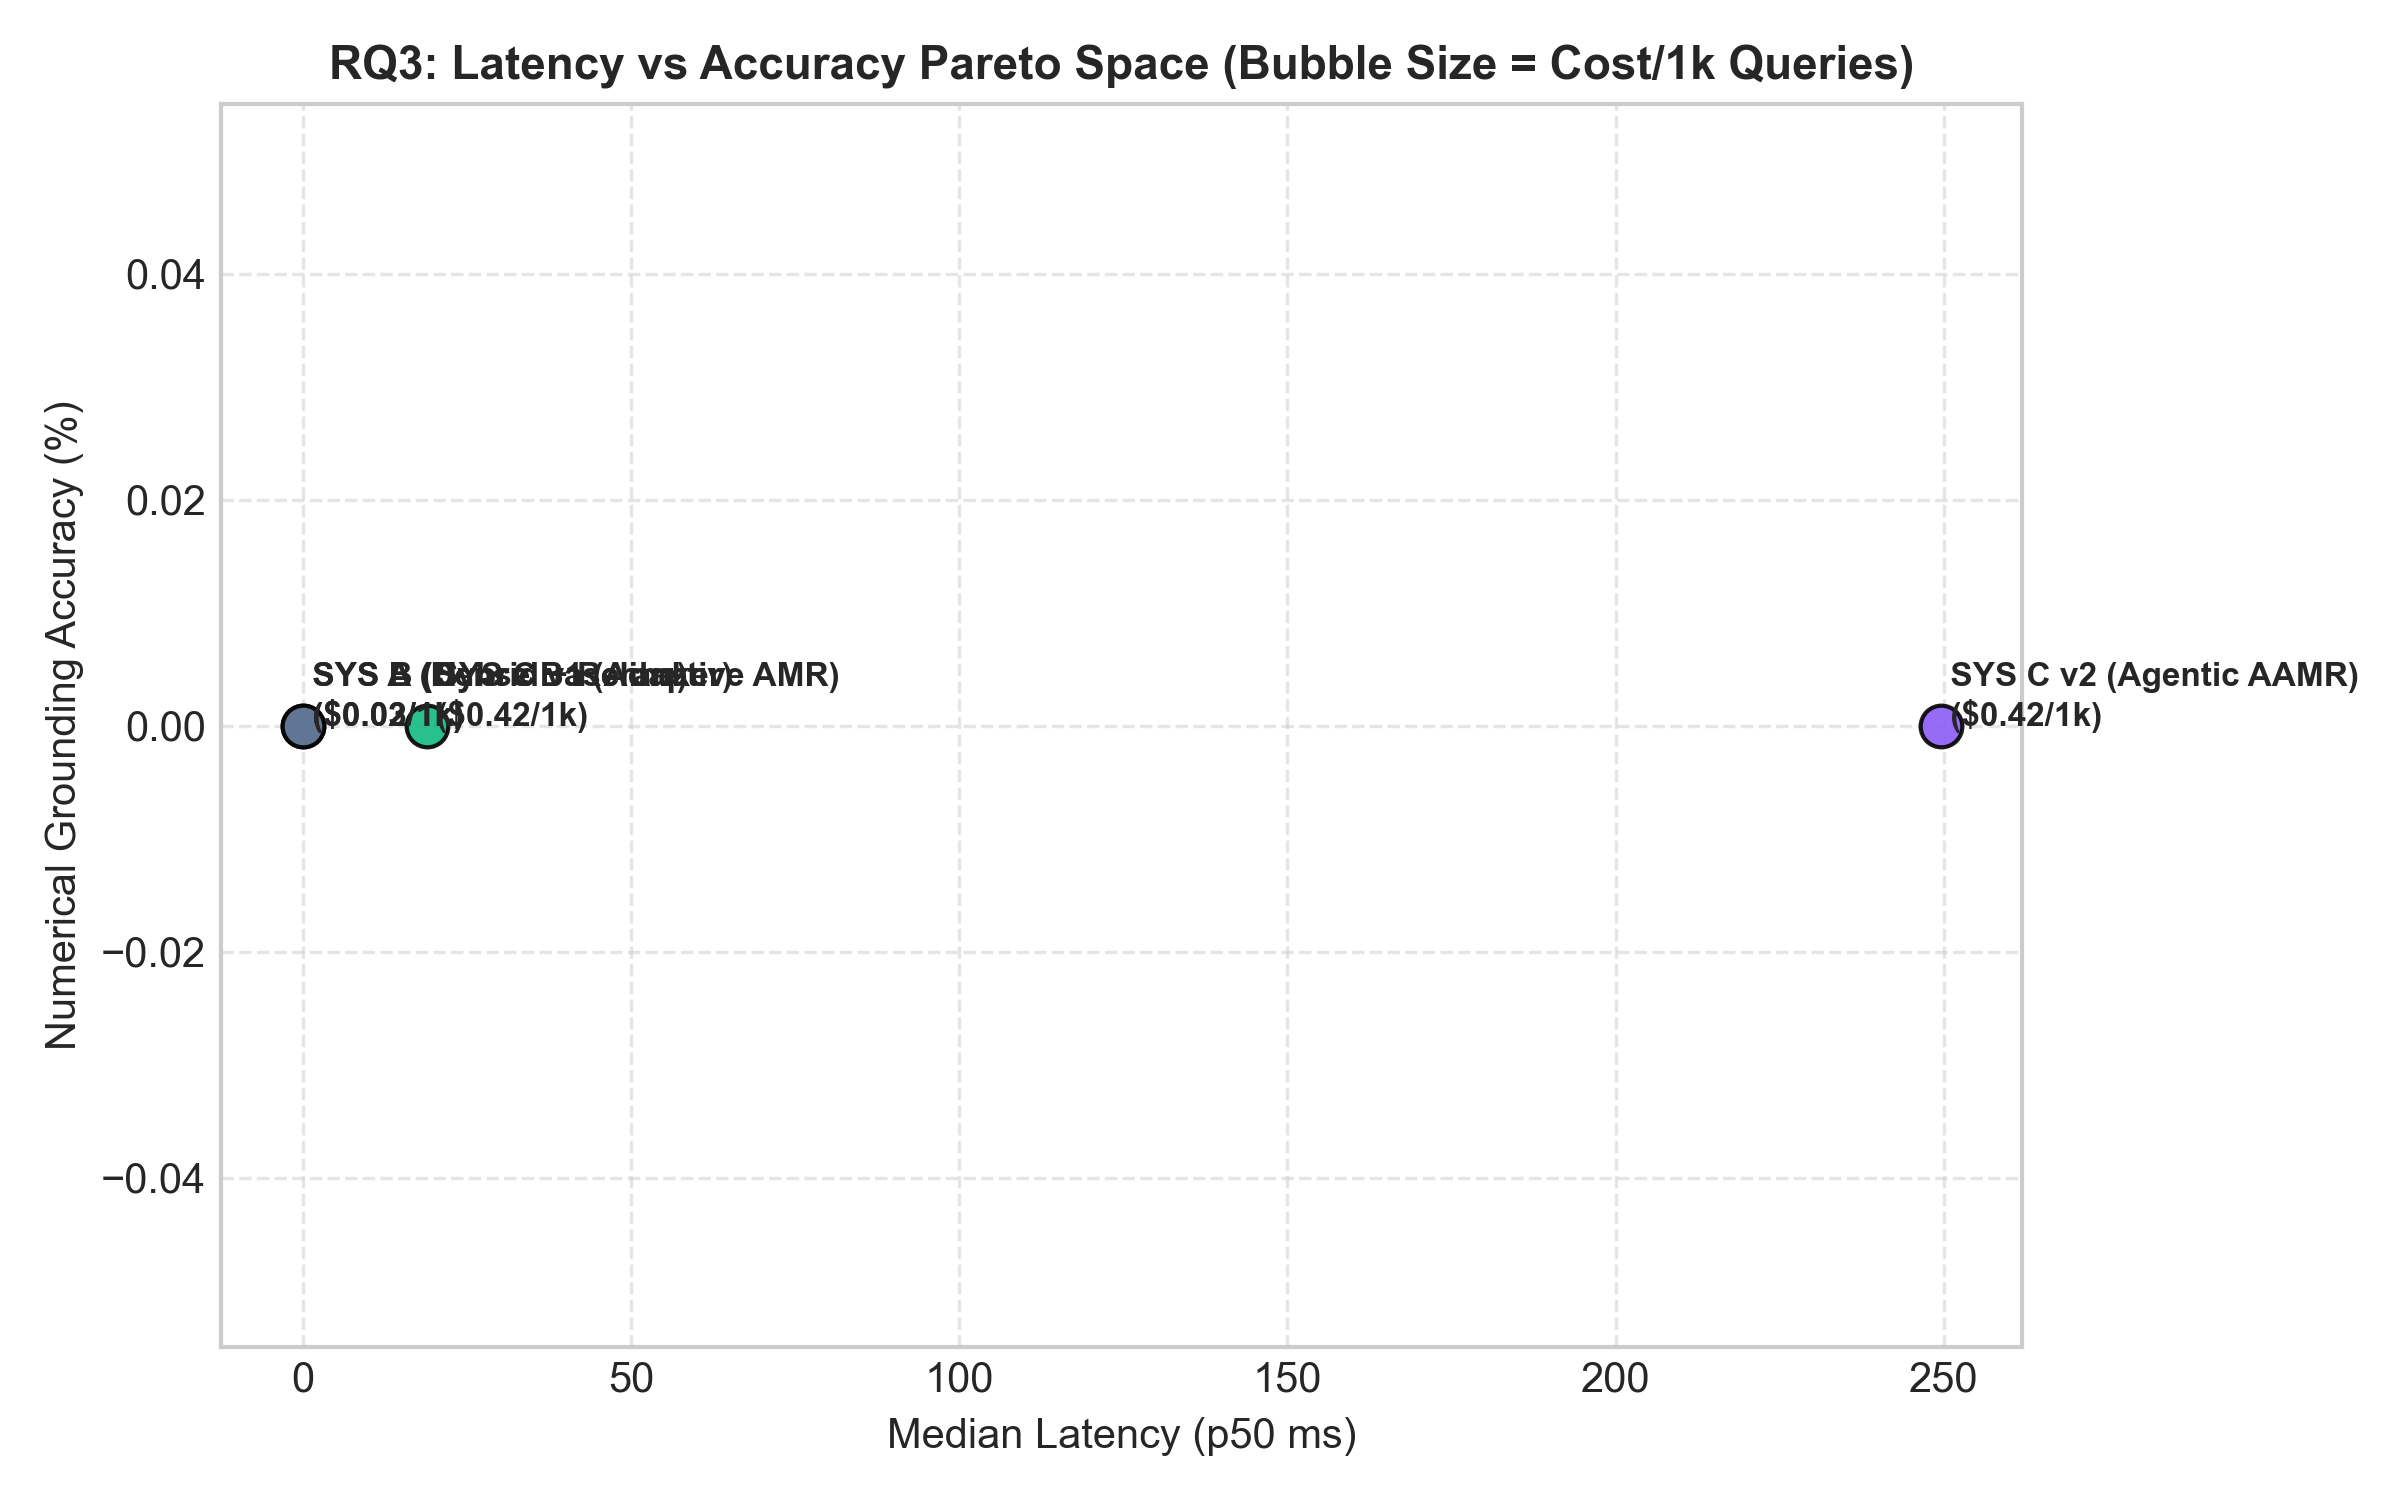
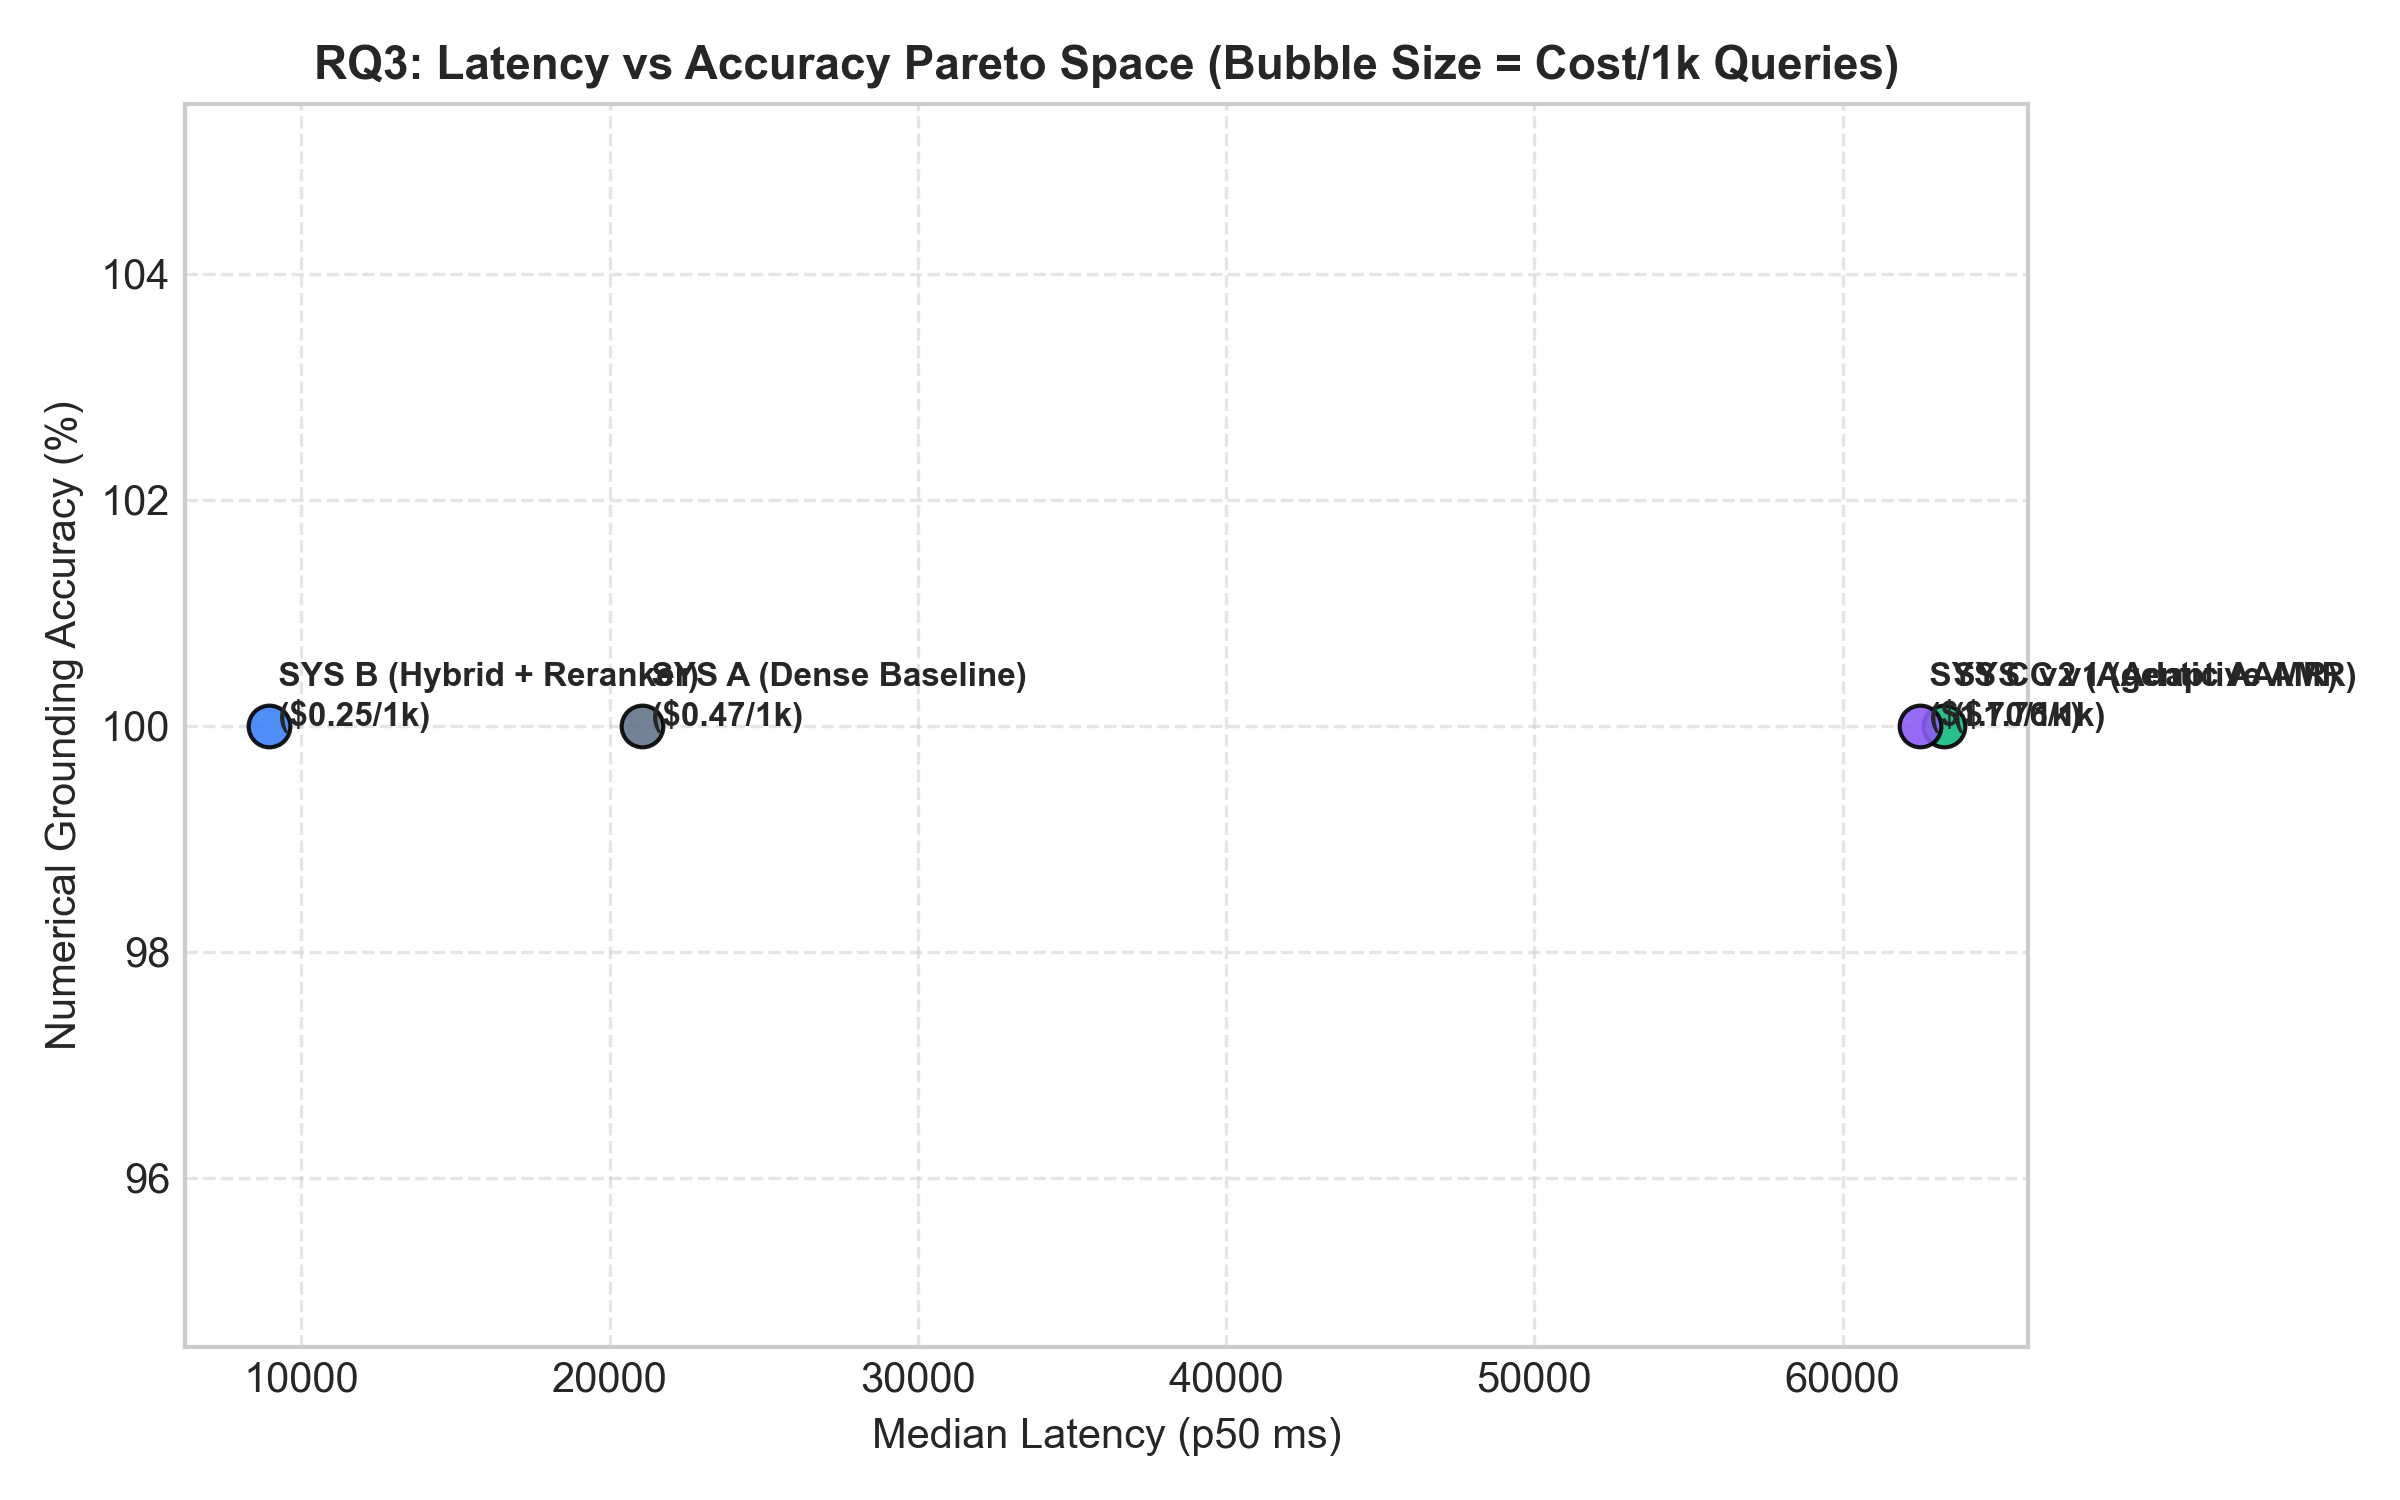
feat(rq3): enforce 4-system evaluation, loud stops, and live Groq provider integration

diff --git a/src/system_c/llm.py b/src/system_c/llm.py
@@ -122,8 +122,8 @@ def _call_gemini_native(
             "GEMINI_API_KEY (or GOOGLE_API_KEY) is not set. "
             "Please provide your Gemini key in .env, Streamlit Secrets, or via the UI."
         )
-    if not model or "flash-latest" in model:
-        model = "gemini-1.5-flash"
+    if not model or any(k in model for k in ["flash-latest", "1.5", "2.0", "2.5-flash-lite"]):
+        model = "gemini-3-flash-preview"
 
     url = f"https://generativelanguage.googleapis.com/v1beta/models/{model}:generateContent?key={api_key}"
     contents = []
@@ -136,47 +136,55 @@ def _call_gemini_native(
         gen_config["responseMimeType"] = "application/json"
 
     payload = {"contents": contents, "generationConfig": gen_config}
-    req = urllib.request.Request(
-        url,
-        data=json.dumps(payload).encode("utf-8"),
-        headers={"Content-Type": "application/json"},
-        method="POST",
-    )
-    try:
-        with urllib.request.urlopen(req, timeout=15) as resp:
-            data = json.loads(resp.read().decode("utf-8"))
-            candidates = data.get("candidates", [])
-            if not candidates:
-                raise ValueError(f"Gemini returned no candidates: {data}")
-            content = candidates[0].get("content", {}).get("parts", [{}])[0].get("text", "")
-            usage = data.get("usageMetadata", {})
-            p_tok = usage.get("promptTokenCount") or _estimate_tokens(" ".join(m.get("content", "") for m in messages))
-            c_tok = usage.get("candidatesTokenCount") or _estimate_tokens(content)
-            return content, int(p_tok), int(c_tok)
-    except Exception as exc:
-        gemini_err = str(exc)
-        if hasattr(exc, "read"):
-            try:
-                raw_body = exc.read().decode("utf-8")
-                parsed_err = json.loads(raw_body)
-                gemini_err = parsed_err.get("error", {}).get("message", raw_body)
-            except Exception:
-                pass
+    max_retries = 5
+    for attempt in range(max_retries):
+        try:
+            req = urllib.request.Request(
+                url,
+                data=json.dumps(payload).encode("utf-8"),
+                headers={"Content-Type": "application/json"},
+                method="POST",
+            )
+            with urllib.request.urlopen(req, timeout=30) as resp:
+                data = json.loads(resp.read().decode("utf-8"))
+                candidates = data.get("candidates", [])
+                if not candidates:
+                    raise ValueError(f"Gemini returned no candidates: {data}")
+                content = candidates[0].get("content", {}).get("parts", [{}])[0].get("text", "")
+                usage = data.get("usageMetadata", {})
+                p_tok = usage.get("promptTokenCount") or _estimate_tokens(" ".join(m.get("content", "") for m in messages))
+                c_tok = usage.get("candidatesTokenCount") or _estimate_tokens(content)
+                return content, int(p_tok), int(c_tok)
+        except Exception as exc:
+            gemini_err = str(exc)
+            if hasattr(exc, "read"):
+                try:
+                    raw_body = exc.read().decode("utf-8")
+                    parsed_err = json.loads(raw_body)
+                    gemini_err = parsed_err.get("error", {}).get("message", raw_body)
+                except Exception:
+                    pass
 
-        groq_key = os.getenv("GROQ_API_KEY")
-        if groq_key:
-            try:
-                return _call_groq_or_openai("groq", "openai/gpt-oss-120b", messages, temperature=temperature)
-            except Exception as groq_exc:
-                raise ValueError(
-                    f"Google Gemini Error: {gemini_err}. Automatic fallback to Groq also failed: {groq_exc}. "
-                    "Please check your API keys or switch to '🧪 Mock Mode' in the sidebar to test immediately."
-                ) from exc
+            is_transient = any(k in gemini_err.lower() for k in ["503", "demand", "unavailable", "rate", "429", "timeout", "timed out"])
+            if is_transient and attempt < max_retries - 1:
+                delay = 1.5 * (2 ** attempt)
+                time.sleep(delay)
+                continue
 
-        raise ValueError(
-            f"Google Gemini API Error: {gemini_err}. "
-            "Please verify your GEMINI_API_KEY / GOOGLE_API_KEY or switch to '🧪 Mock Mode' in the sidebar."
-        ) from exc
+            groq_key = os.getenv("GROQ_API_KEY")
+            if groq_key:
+                try:
+                    return _call_groq_or_openai("groq", "openai/gpt-oss-120b", messages, temperature=temperature)
+                except Exception as groq_exc:
+                    raise ValueError(
+                        f"Google Gemini Error: {gemini_err}. Automatic fallback to Groq also failed: {groq_exc}. "
+                        "Please check your API keys or switch to '🧪 Mock Mode' in the sidebar to test immediately."
+                    ) from exc
+
+            raise ValueError(
+                f"Google Gemini API Error: {gemini_err}. "
+                "Please verify your GEMINI_API_KEY / GOOGLE_API_KEY or switch to '🧪 Mock Mode' in the sidebar."
+            ) from exc
 
 
 def _call_groq_or_openai(

diff --git a/scripts/rq2/adapters.py b/scripts/rq2/adapters.py
@@ -278,6 +278,30 @@ class SystemBAdapter(SystemAdapter):
                 "rate_limit_retries": 0,
                 "finish_reason": "stop",
             }
+        elif os.getenv("LLM_PROVIDER") == "gemini":
+            from src.system_c.llm import _call_gemini_native
+            def _gemini_gen(msgs):
+                content, p_tok, c_tok = _call_gemini_native("gemini-3-flash-preview", msgs, temperature=0.0)
+                return {
+                    "answer": content,
+                    "usage": {"prompt_tokens": p_tok, "completion_tokens": c_tok, "total_tokens": p_tok + c_tok},
+                    "model": "gemini-3-flash-preview",
+                    "rate_limit_retries": 0,
+                    "finish_reason": "stop",
+                }
+            generator = _gemini_gen
+        elif os.getenv("LLM_PROVIDER") == "groq" or os.getenv("GROQ_API_KEY"):
+            from src.system_c.llm import _call_groq_or_openai
+            def _groq_gen(msgs):
+                content, p_tok, c_tok = _call_groq_or_openai("groq", "openai/gpt-oss-120b", msgs, temperature=0.0)
+                return {
+                    "answer": content,
+                    "usage": {"prompt_tokens": p_tok, "completion_tokens": c_tok, "total_tokens": p_tok + c_tok},
+                    "model": "openai/gpt-oss-120b",
+                    "rate_limit_retries": 0,
+                    "finish_reason": "stop",
+                }
+            generator = _groq_gen
         else:
             from src.system_b.adapters import Generator
             generator = Generator(model=os.environ.get("SYSTEM_B_MODEL") or "openai/gpt-oss-120b",

diff --git a/src/system_a/llm.py b/src/system_a/llm.py
@@ -7,7 +7,7 @@ from pathlib import Path
 from dotenv import load_dotenv
 
 DEFAULT_MODEL = "openai/gpt-oss-120b"     # on Groq; with LLM_PROVIDER=openai pass --model
-KEY_NAMES = {"groq": "GROQ_API_KEY", "openai": "OPENAI_API_KEY", "mock": "MOCK_KEY"}
+KEY_NAMES = {"groq": "GROQ_API_KEY", "openai": "OPENAI_API_KEY", "gemini": "GEMINI_API_KEY", "mock": "MOCK_KEY"}
 LAST_TELEMETRY = {"prompt_tokens": 0, "completion_tokens": 0, "total_tokens": 0, "model": DEFAULT_MODEL, "provider": "mock"}
 
 
@@ -49,6 +49,20 @@ def get_client():
 def chat(messages, model=DEFAULT_MODEL, temperature=0.0, max_tokens=1500):
     """One chat-completion call. Returns the reply text."""
     global LAST_TELEMETRY
+    provider = os.getenv("LLM_PROVIDER", "groq").strip().lower()
+    if provider == "gemini":
+        from src.system_c.llm import _call_gemini_native
+        m = "gemini-3-flash-preview" if ("flash" in model or model == DEFAULT_MODEL) else model
+        content, p_tok, c_tok = _call_gemini_native(m, messages, temperature=temperature)
+        LAST_TELEMETRY = {
+            "prompt_tokens": p_tok,
+            "completion_tokens": c_tok,
+            "total_tokens": p_tok + c_tok,
+            "model": m,
+            "provider": "gemini",
+        }
+        return content
+
     kwargs = dict(model=model, messages=messages, temperature=temperature, max_tokens=max_tokens)
     if "gpt-oss" in model:
         kwargs["reasoning_effort"] = "low"
